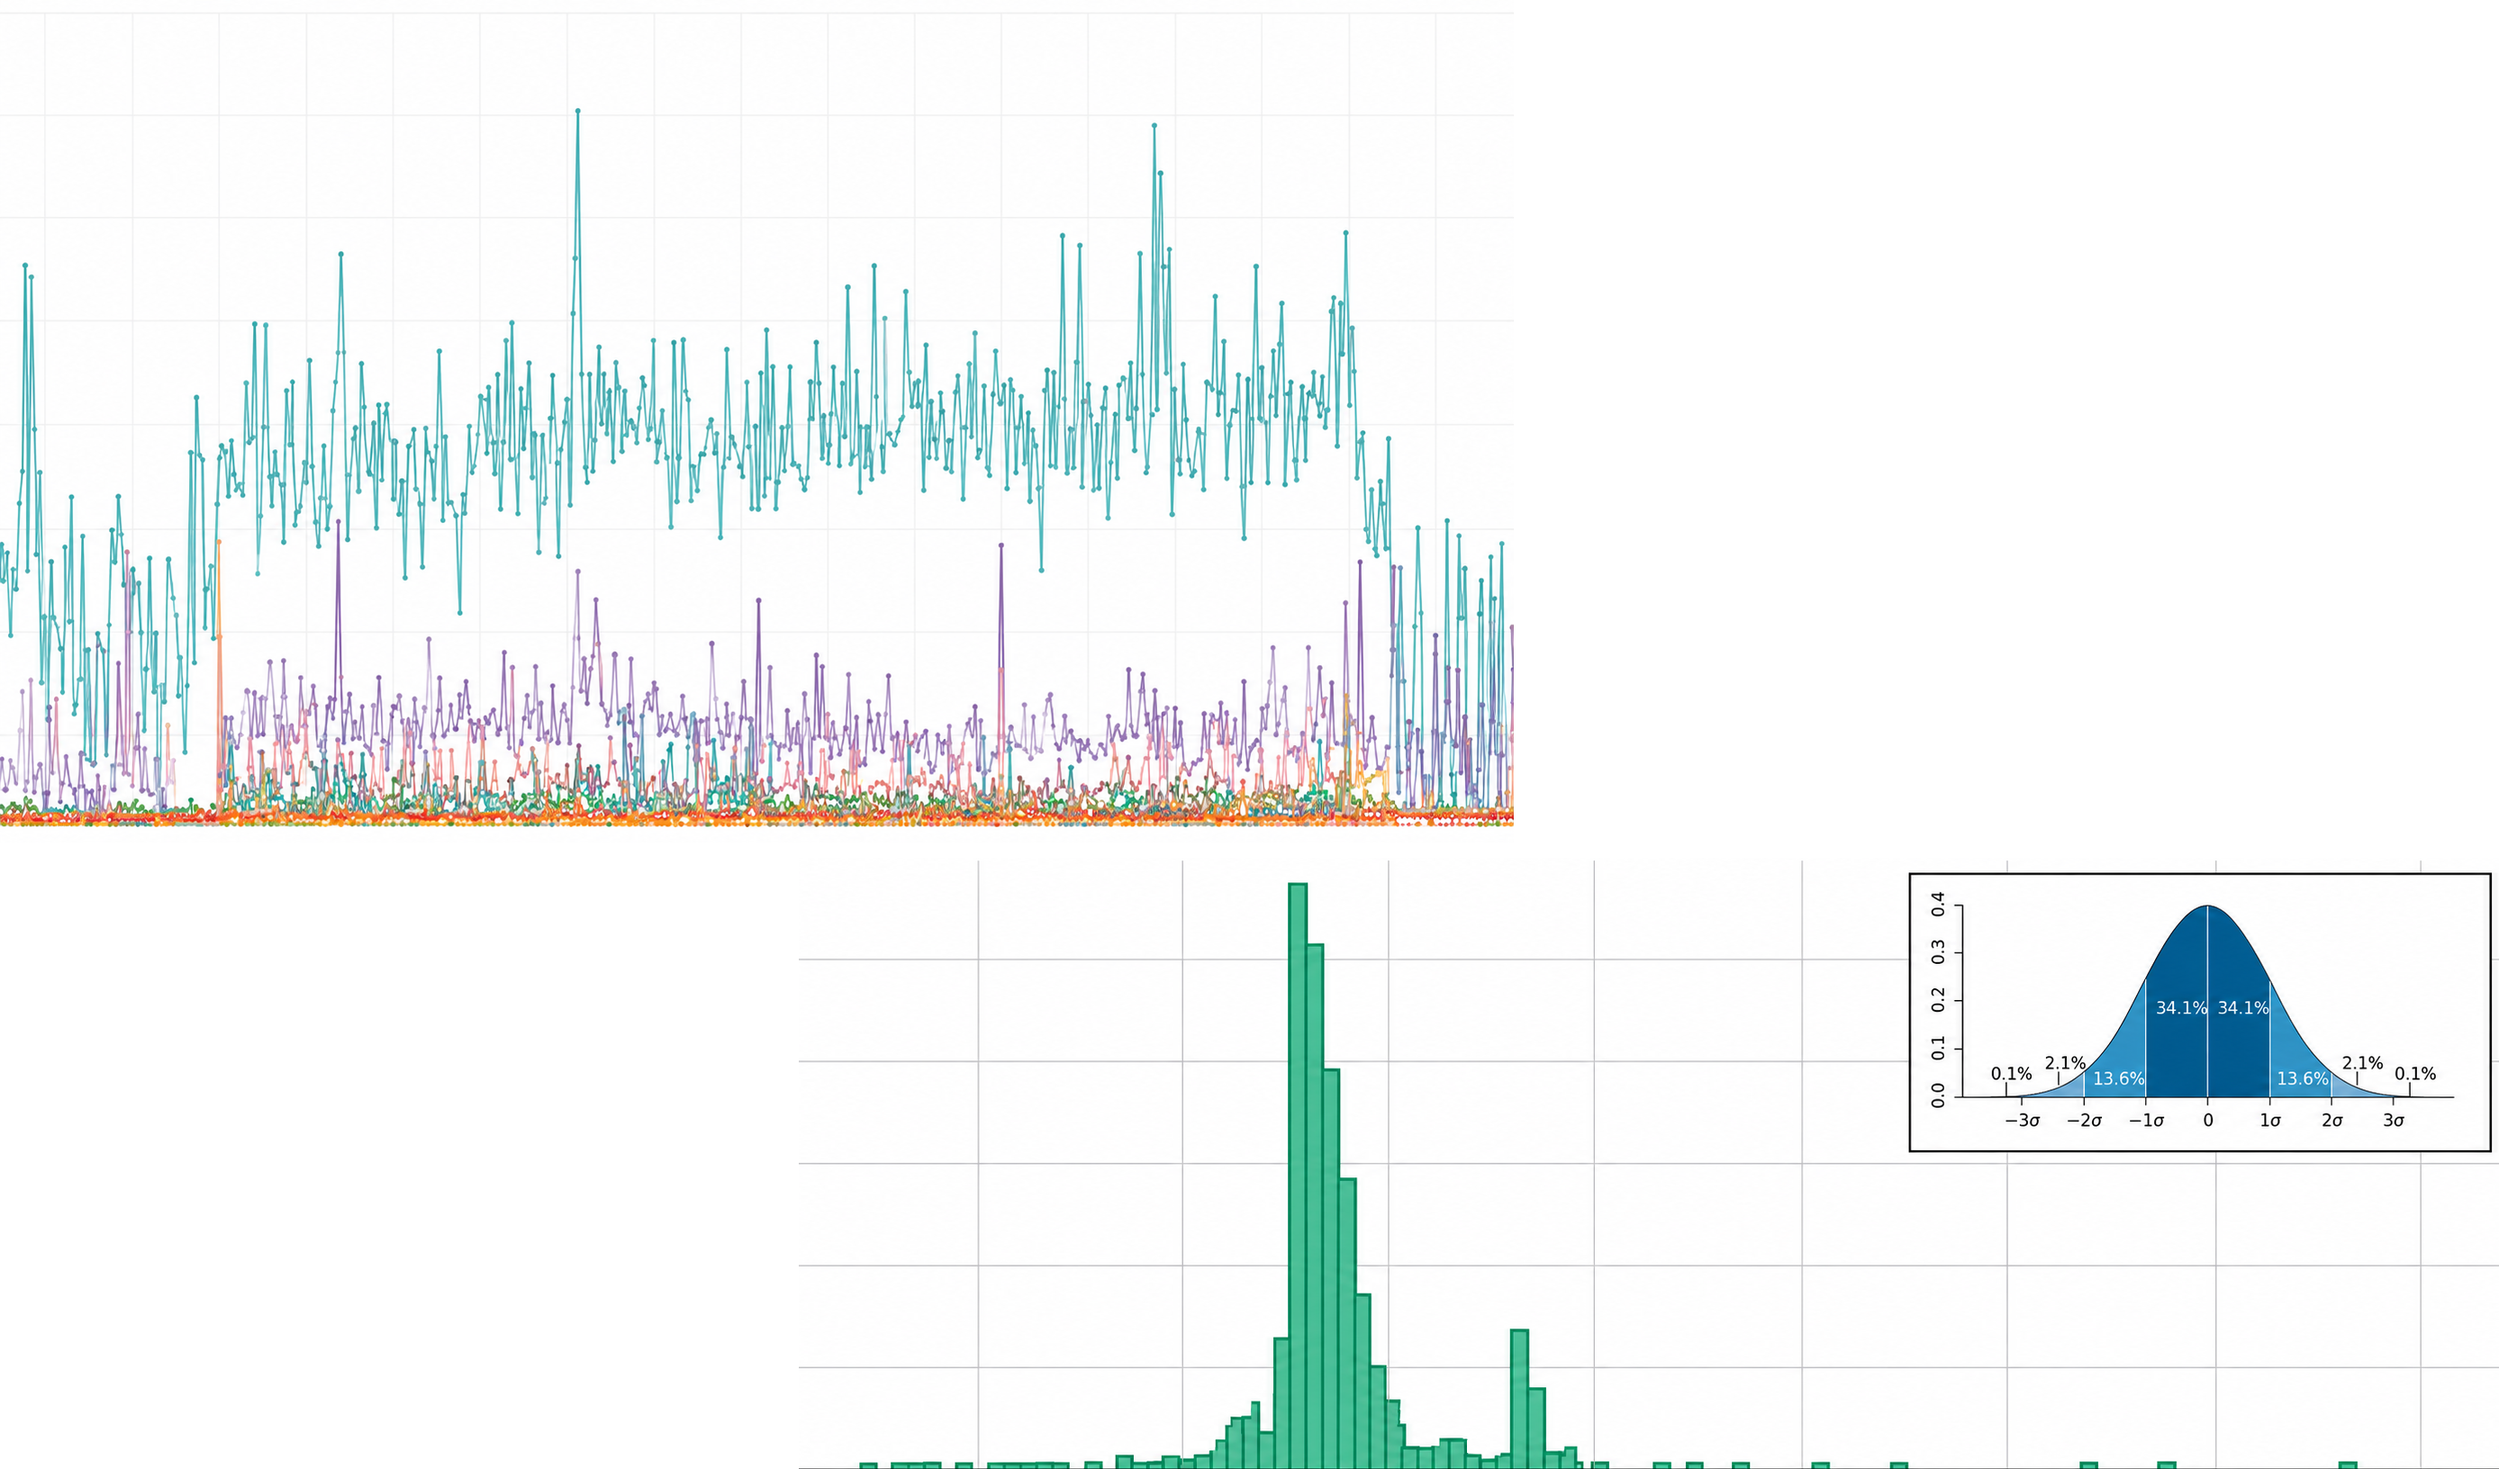
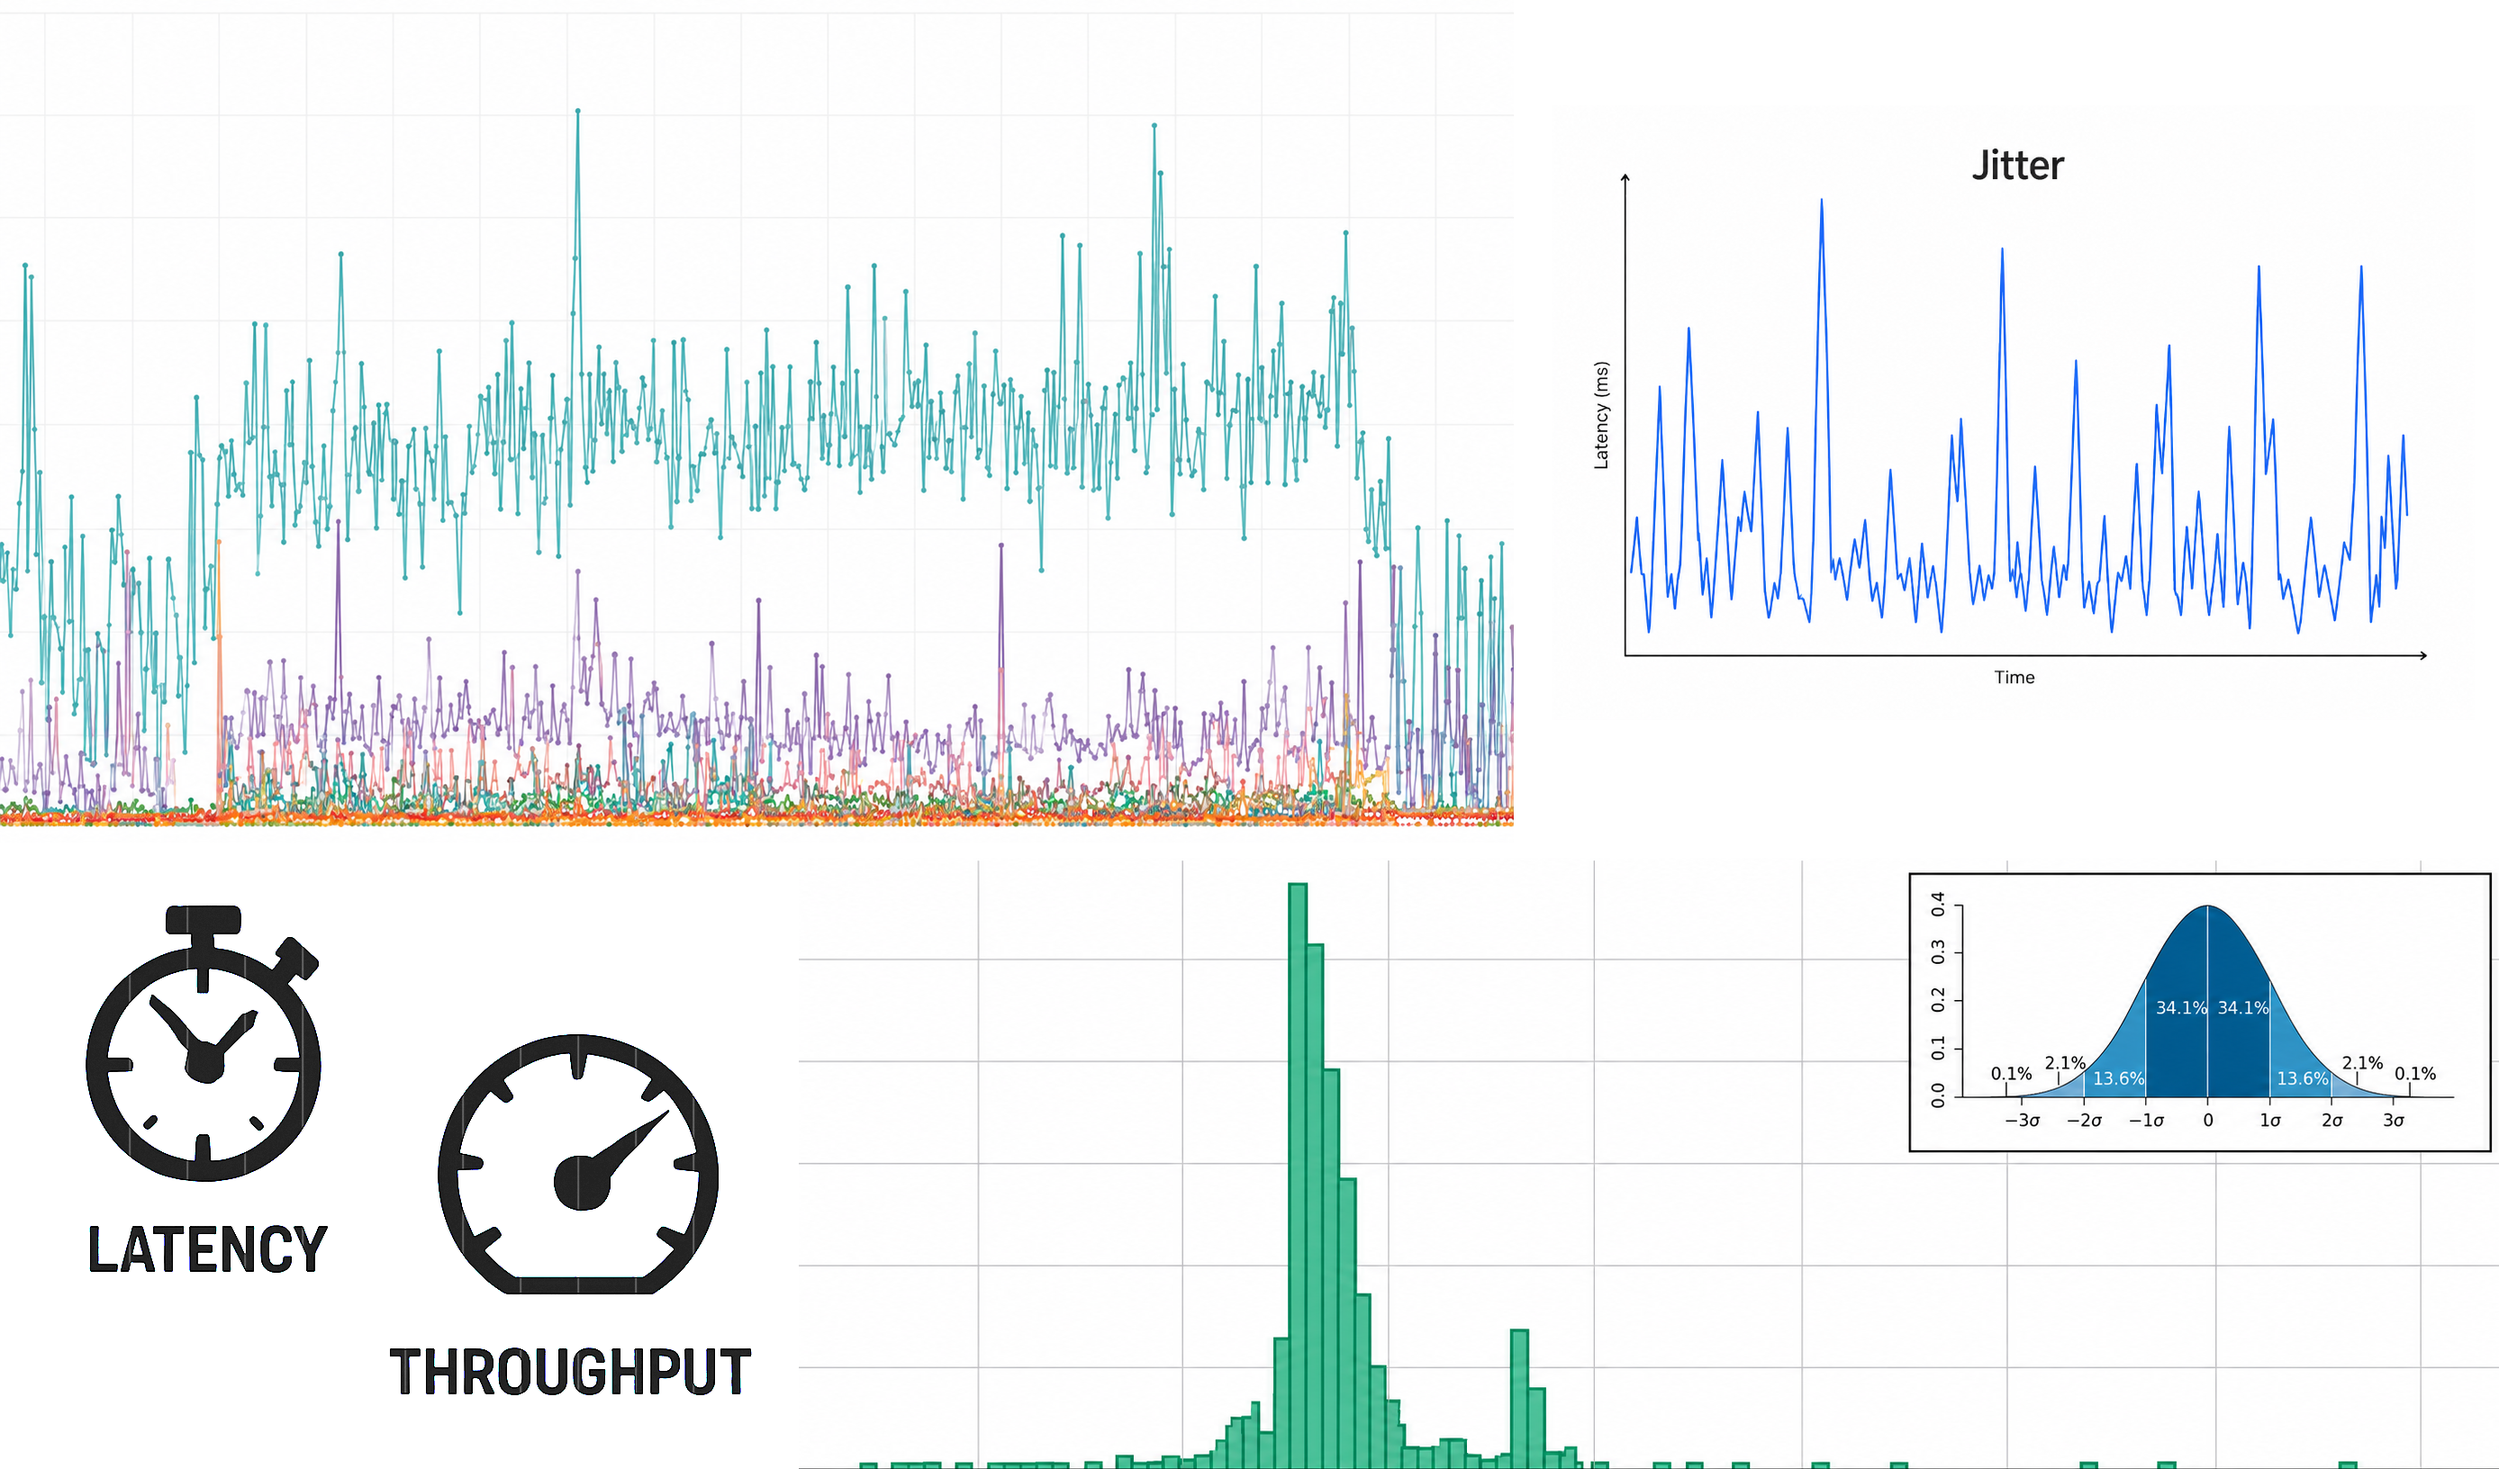
cppcon-2026

diff --git a/cppcon-2026/index.html b/cppcon-2026/index.html
@@ -51,13 +51,44 @@
 
 ----
 
+#### Disclaimer
+<!-- .element: style="text-align:left" -->
+
+```
+Focused on x86-64/linux
+Powered by linux-perf + perf-labs/perf
+```
+
+<p align="left">
+<img src="images/cpu_fpga_gpu_tpu.jpg" style="width: 49%; background:none; border:none; box-shadow:none;" />
+</p>
+
+##### - Intel - https://www.intel.com/content/www/us/en/developer/articles/technical/intel-sdm.html
+<!-- .element: style="text-align:left; margin: 5px 0; font-size:22px" -->
+##### - AMD - https://docs.amd.com/v/u/en-US/40332-PUB_4.08
+<!-- .element: style="text-align:left; margin: 5px 0; font-size:22px" -->
+##### - ARM - https://developer.arm.com/documentation/ddi0487/latest
+<!-- .element: style="text-align:left; margin: 5px 0; font-size:22px" -->
+##### - Apple - https://developer.apple.com/documentation/apple-silicon/cpu-optimization-guide
+<!-- .element: style="text-align:left; margin: 5px 0; font-size:22px" -->
+
+---
+
+```asm
+apt install linux-tools-$(uname -r)
+pip install git+https://github.com/perf-labs/perf.git
+```
+<!-- .element: style="text-align:left; margin: 5px 0px; font-size:16px;" -->
+
+----
+
 ### Motivation
 <!-- .element: style="text-align:left" -->
 
 ----
 
 
-##### "`Perf or Nah`?"
+##### "`perf or nah`?"
 
 <!-- .element: style="text-align:left;" -->
 
@@ -106,10 +137,6 @@ What affects performance? if so, how much and why?
   </td>
 </tr>
 </table>
-
-<!--#### performance is not a number-->
-<!--#### performance is not normally distributed-->
-<!--#### performance is not scaling with transistors size-->
 
 https://github.com/karlrupp/microprocessor-trend-data
 <!-- .element: style="text-align:left; margin: 5px 0px; font-size:22px;" -->
@@ -160,22 +187,7 @@ https://github.com/karlrupp/microprocessor-trend-data
 <!-- .element: style="text-align:left" -->
 
 ```cpp
-how? when?
-```
-
-<img src="images/cpu_fpga_gpu_tpu.png" style="width: 49%; background:none; border:none; box-shadow:none;" />
-<img src="images/jitter.png" style="width: 32%; background:none; border:none; box-shadow:none;" />
-
-http://www.qbaylogic.com
-<!-- .element: style="text-align:left; font-size:19px;" -->
-
-----
-
-### Always Measure
-<!-- .element: style="text-align:left" -->
-
-```cpp
-what?
+what? how? when?
 ```
 
 <img src="images/perf_map.png" style="width: 43%; background:none; border:none; box-shadow:none;" />
@@ -475,15 +487,14 @@ multiple runs?
 <!-- .element: style="text-align:left" -->
 
 ```cpp
+What if data spikes?
 What if cache will not be hot?
 What if branch will not be predicted?
 Whaf if code/data layout changes?
-What if data spikes?
 What if ...?
 ```
 
 ----
-
 
 ### Solution
 <!-- .element: style="text-align:left" -->
@@ -504,22 +515,6 @@ machine code                    # binary/assembly: cpp, rust, zig, ...
           → native execution    # bias-controlled
 ```
 <!-- .element: style="text-align:left; font-size:22px;" -->
-
-----
-
-#### Disclaimer
-<!-- .element: style="text-align:left" -->
-
-```
-Focused on x86-64/linux
-Powered by linux-perf + perf-labs/perf
-```
-
-```asm
-apt install linux-tools-$(uname -r)
-pip install git+https://github.com/perf-labs/perf.git
-```
-<!-- .element: style="text-align:left; margin: 5px 0px; font-size:16px;" -->
 
 ----
 
@@ -681,17 +676,21 @@ https://llvm.org/docs/CommandGuide/llvm-exegesis.html
 #### Hardware effects [bias: cache, branch]
 <!-- .element: style="text-align:left" -->
 
-<img src="images/zen5.png" style="width: 82%; background:none; border:none; box-shadow:none;" />
+<p align="left">
+<img src="images/zen5.png" style="width: 79%; background:none; border:none; box-shadow:none;" />
+</p>
 
 https://chipsandcheese.com
 <!-- .element: style="text-align:left; font-size:22px; margin: 5px 0px;" -->
 
 ----
 
-#### Hardware effects [noise: jitter]
+#### Hardware effects [noise/jitter]
 <!-- .element: style="text-align:left" -->
 
+<p align="left">
 <img src="images/linux.png" style="width: 70%; background:none; border:none; box-shadow:none;" />
+</p>
 
 https://makelinux.github.io/kernel/map
 <!-- .element: style="text-align:left; font-size:22px; margin: 5px 0px;" -->
@@ -701,7 +700,9 @@ https://makelinux.github.io/kernel/map
 #### Hardware effects [opt: codegen]
 <!-- .element: style="text-align:left" -->
 
+<p align="left">
 <img src="images/code.png" style="width: 70%; background:none; border:none; box-shadow:none;" />
+</p>
 
 ```cpp
 objdump -d -s <file>
@@ -798,7 +799,7 @@ CLDEMOTE    Hint into more distant level (Sapphire Rapids / Xeon, ...)
 ```cpp
 perf bench asm 'add r11, [rax]'
   --march sapphirerapids
-  --config.memory.cache.dL1="hit_rate:100"
+  --config.memory.cache.dL1=hit_rate:100
   --data.r11=0
   --data.rax=0x4000
   --data.memory.0x4000=1234
@@ -874,6 +875,11 @@ https://users.cs.northwestern.edu/~robby/courses/322-2013-spring/mytkowicz-wrong
 
 ----
 
+#### The worst possiblie execution!
+<!-- .element: style="text-align:left" -->
+
+----
+
 #### Case study
 <!-- .element: style="text-align:left" -->
 
@@ -944,7 +950,6 @@ Non-tuned vs. tuned
 
 ----
 
-
 ```cpp
 perf bench instr 'mov'
     --march sapphirerapids
@@ -982,23 +987,31 @@ template auto enum_to_string(color) -> std::string_view;
 
 ----
 
+```cpp
 g++ -O3 ...
 g++ -O2 ...
 clang++ -O3 ...
 clang++ -O2 ...
+```
 
+```
 perf bench func | perf plot -p ecdf
+```
 
 ----
 
+```
 perf bench fizz_buzz -- 0
 perf bench fizz_buzz -- 1
 perf bench fizz_buzz -- 2
 ...
+```
 
 ----
 
-perf plot # over time
+```
+perf plot # trend
+```
 
 ----
 
